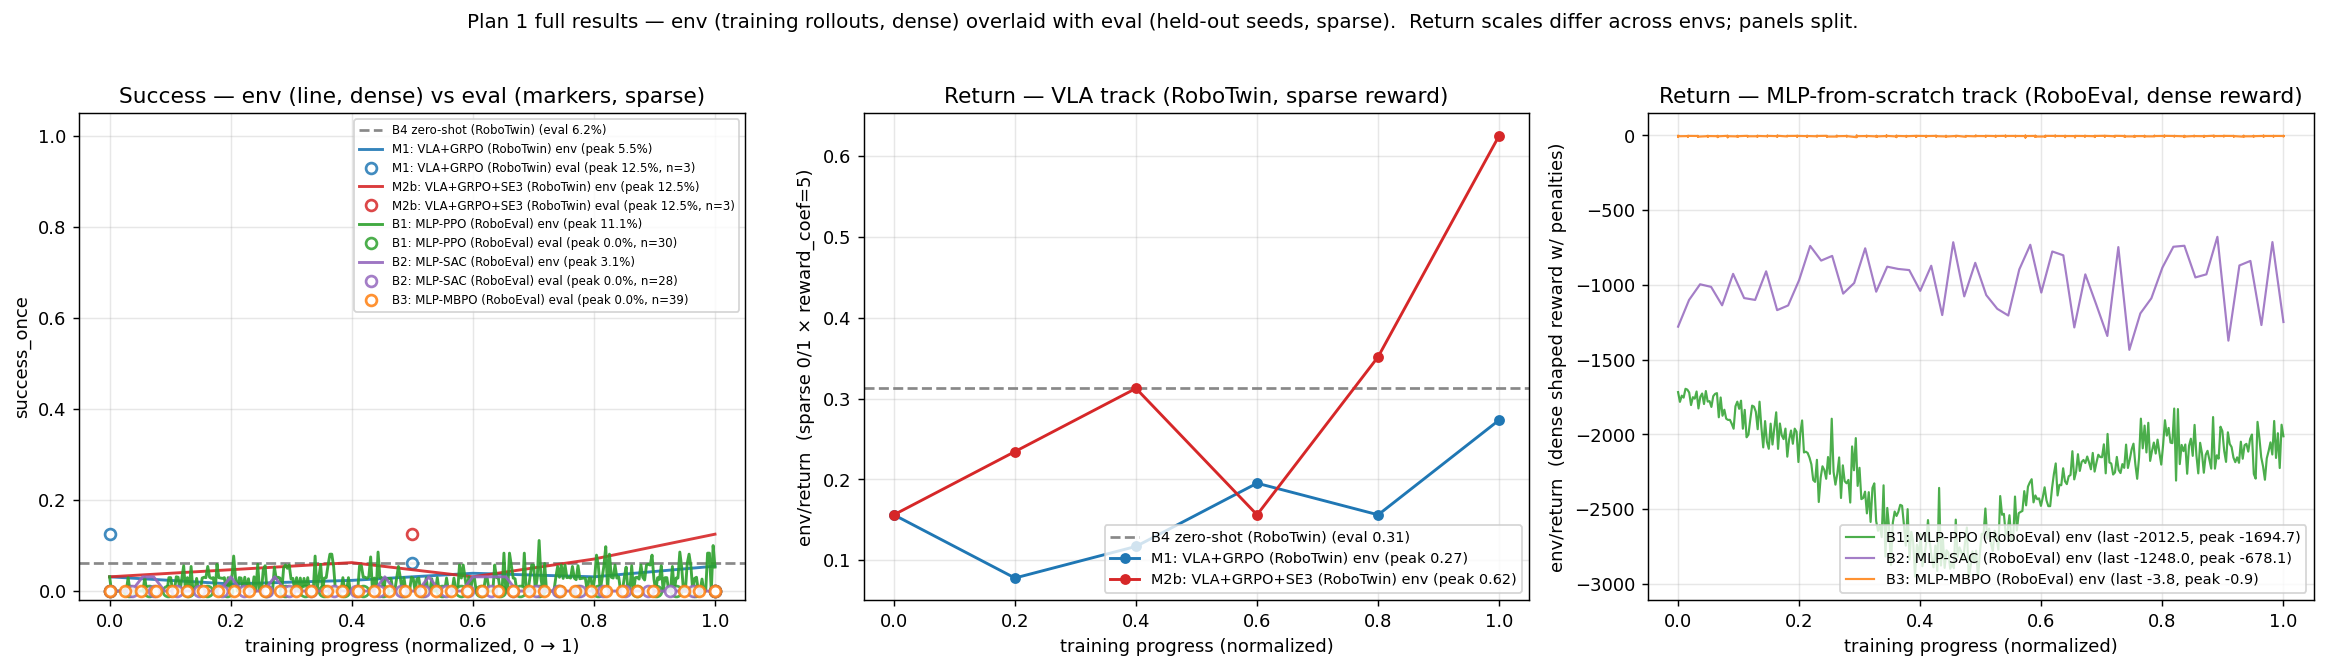
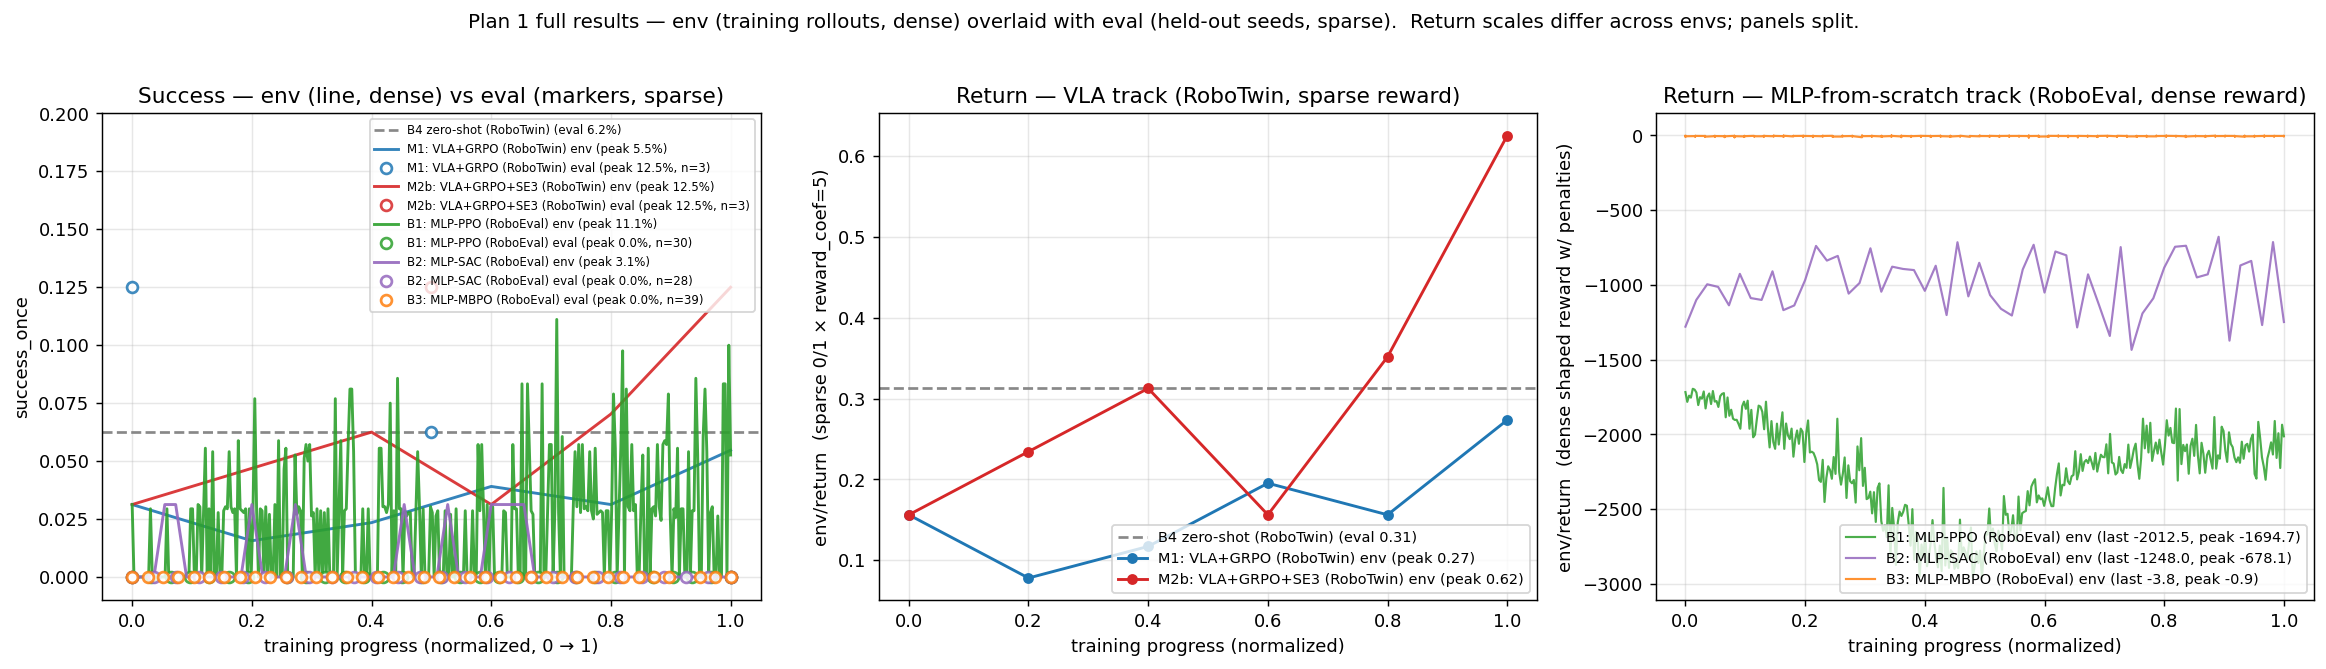
docs(rob831): clean up figures — drop bugged eval=1.0 points, rebuild VLA plot, zoom y-axis
- plot_all_tracks.py: drop the bugged RoboEval eval=1.0 spikes silently
  (previously marked with ✗; per discussion, no point cluttering). Zoom
  panel-1 y-axis from [-0.02, 1.05] to [-0.01, 0.20] since actual data
  maxes at 12.5%.
- plot_vla_track.py: rebuilt to match plot_all_tracks style — dense
  env/success_once lines overlaid with sparse eval/success_once hollow
  markers. Previous version showed only 3 sparse eval points per run and
  hid the fact that M2b's env/success_once actually reaches 12.5%
  (matching its eval peak) while M1's env/success_once only peaks at
  5.5%. Same treatment for env/return vs eval/return.

diff --git a/scripts/plot_all_tracks.py b/scripts/plot_all_tracks.py
@@ -112,7 +112,7 @@ def main() -> None:
     ax.set_xlabel("training progress (normalized, 0 → 1)")
     ax.set_ylabel("success_once")
     ax.set_title("Success — env (line, dense) vs eval (markers, sparse)")
-    ax.set_ylim(-0.02, 1.05)
+    ax.set_ylim(-0.01, 0.20)
     ax.grid(alpha=0.3)
     ax.legend(fontsize=6.5, loc="upper right", ncol=1)
 
